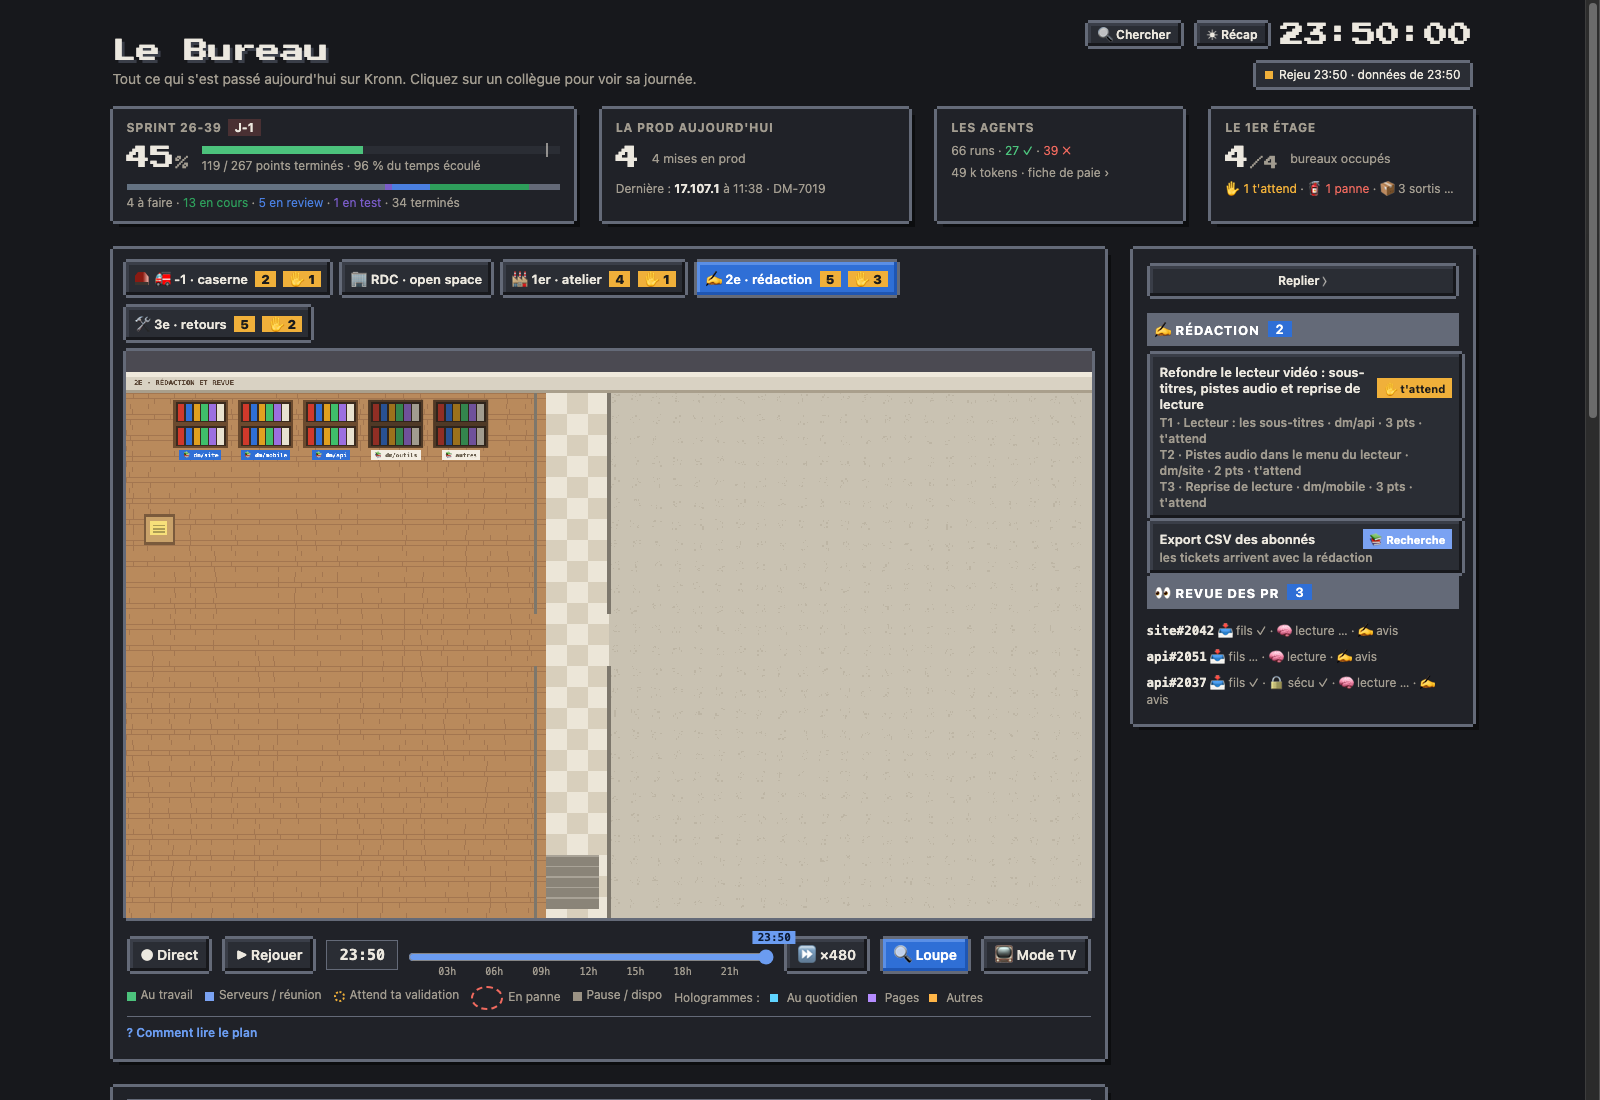
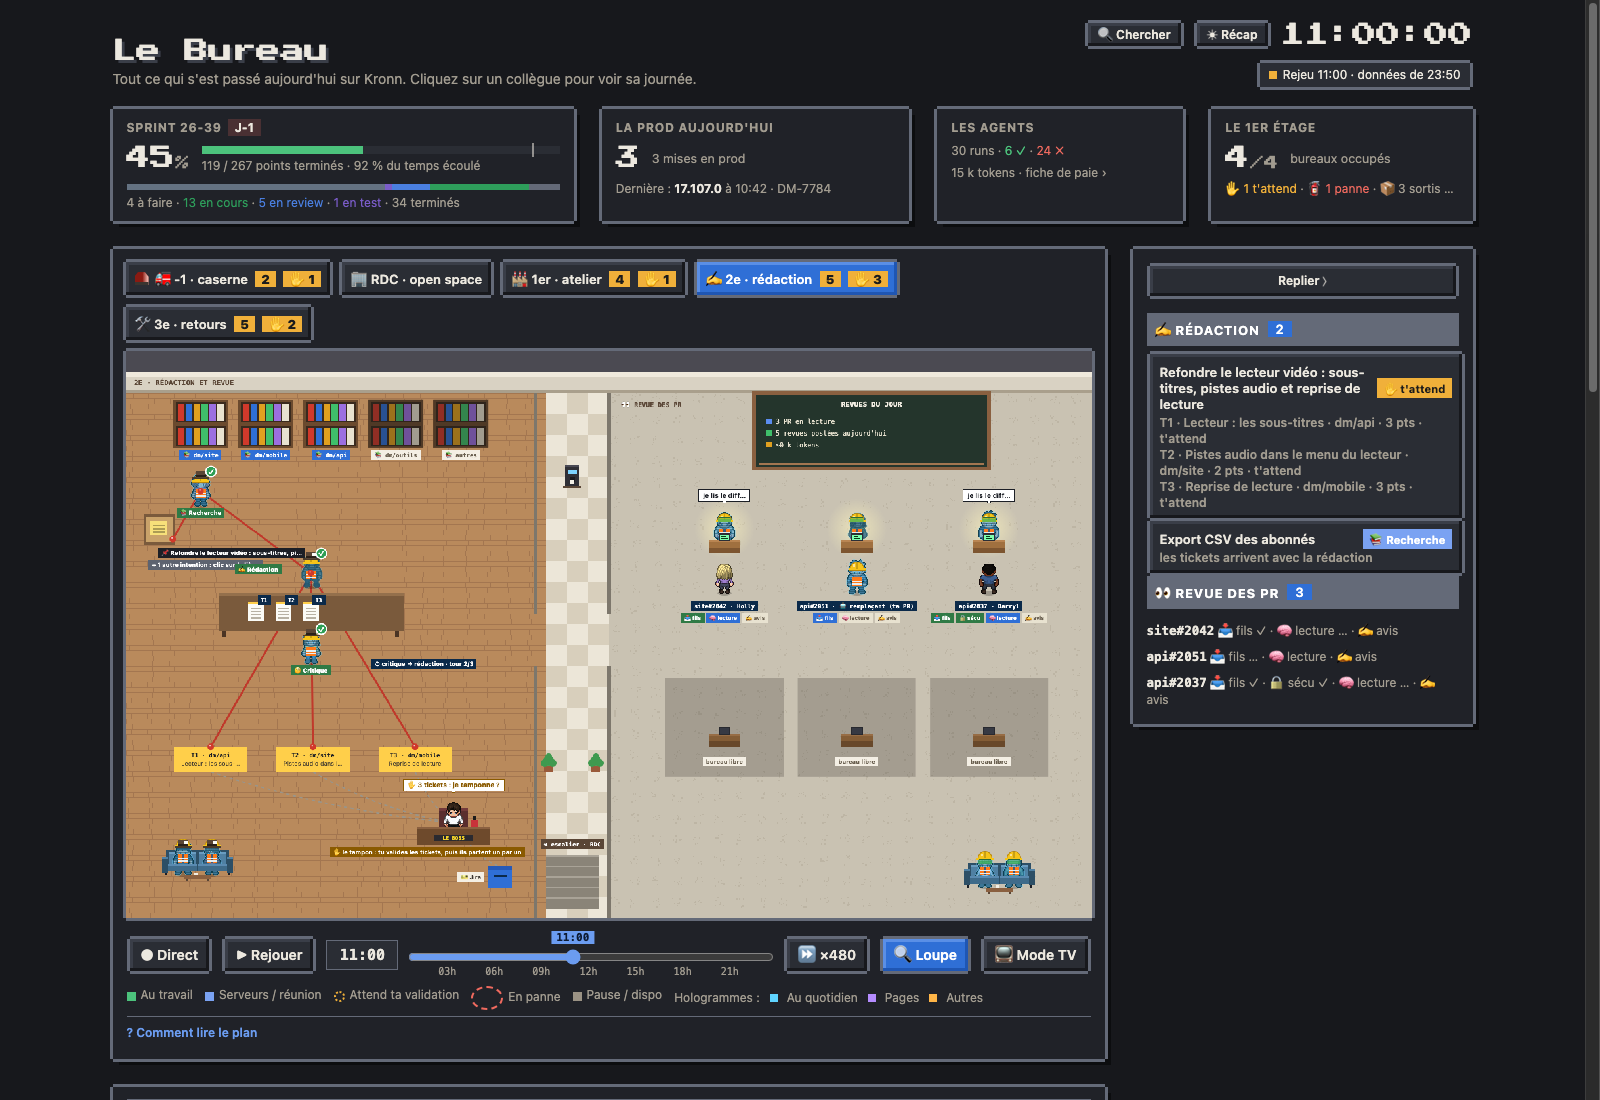
fix(redaction): le 2e étage se dessine de nouveau (ctx.stroke) (#166)
## 🎯 Quoi et pourquoi
Le 2e étage ne montre que le sol depuis #164 : un remplacement de `st`
par `etat` a changé `ctx.stroke` en `ctx.etatroke` dans le fil rouge
(`rdStrand`). L'étage s'arrête sur l'erreur, en prod comme dans
`guide/img/redaction.png`. Les tests ne le voyaient pas : leur faux
canvas accepte n'importe quel nom.

## 🔧 Changements
- `page/src/68-redaction.js` : `ctx.strokeStyle` et `ctx.stroke()`
rétablis.
- `tests/canvas-api.test.js` : chaque `ctx.xxx` de la page doit être un
membre du canvas 2D (le test échoue sans le correctif).
- Captures du 2e refaites (`redaction`, `redaction-tampon`), ligne du
CHANGELOG.

## 🧪 Tests
- [x] `sh tools/test.sh --chrome` : tests JS verts (571). Un test Python
échoue en local
(`test_pages_snapshot_captures_with_a_chrome_that_exits_by_itself`), il
échoue aussi sur `origin/main` : sans rapport.
- [x] Un test ajouté ou adapté pour ce changement

## 📸 Captures
`guide/img/redaction.png` : le 2e se dessine de nouveau (avant : le sol
seul).

## ✅ Avant de merger
- [x] Guide, captures dans la même PR
- [x] Affichage changé exprès : label « références visuelles » posé (la
référence `redaction` avait été prise cassée)
- [x] Une ligne dans `CHANGELOG.md`
- [x] Un commit par changement
- [ ] CI « Tests » verte

🤖 Generated with [Claude Code](https://claude.com/claude-code)

---------

diff --git a/tests/canvas-api.test.js b/tests/canvas-api.test.js
@@ -1,0 +1,25 @@
+// Les appels au canvas de la page (ctx.xxx) : seulement des membres de CanvasRenderingContext2D. Le bouchon des tests
+// (helpers/page.js) accepte n'importe quel nom ; un remplacement de texte qui mord un nom (ctx.stroke devenu
+// ctx.etatroke, #164) passe les tests et casse l'étage dans le navigateur.
+'use strict';
+const test = require('node:test');
+const assert = require('node:assert/strict');
+const fs = require('node:fs');
+const path = require('node:path');
+
+const CANVAS = new Set(('arc arcTo beginPath bezierCurveTo canvas clearRect clip closePath createConicGradient createImageData '
+  + 'createLinearGradient createPattern createRadialGradient direction drawFocusIfNeeded drawImage ellipse fill fillRect '
+  + 'fillStyle fillText filter font fontKerning getImageData getLineDash getTransform globalAlpha globalCompositeOperation '
+  + 'imageSmoothingEnabled imageSmoothingQuality isPointInPath isPointInStroke letterSpacing lineCap lineDashOffset lineJoin '
+  + 'lineTo lineWidth measureText miterLimit moveTo putImageData quadraticCurveTo rect reset resetTransform restore rotate '
+  + 'roundRect save scale setLineDash setTransform shadowBlur shadowColor shadowOffsetX shadowOffsetY stroke strokeRect '
+  + 'strokeStyle strokeText textAlign textBaseline transform translate wordSpacing').split(' '));
+
+test('ctx.xxx : des membres du canvas 2D, dans chaque fichier de la page', () => {
+  const dir = path.join(__dirname, '..', 'page', 'src'), bad = [];
+  for (const f of fs.readdirSync(dir).filter(f => f.endsWith('.js'))) {
+    const src = fs.readFileSync(path.join(dir, f), 'utf8');
+    for (const m of src.matchAll(/\bctx\.([A-Za-z]+)/g)) if (!CANVAS.has(m[1])) bad.push(f + ' : ctx.' + m[1]);
+  }
+  assert.deepEqual(bad, []);
+});

diff --git a/page/src/68-redaction.js b/page/src/68-redaction.js
@@ -82,8 +82,8 @@ function rdShelf(x,y,label,lit){R(ctx,x,y,84,74,'#6b4a2e');[4,40].forEach(dy=>{R
 // les bibliothèques : les composants de l'équipe (jira.create.components du pack ou de la config), sinon ceux de la démo
 const rdShelves=t=>{const own=[...((t&&t.composants)||[])], base=[...((CFG.redaction_shelves||[]).length?CFG.redaction_shelves:RD_SH0)].slice(0,4);for(const c of own)if(!base.includes(c))base.splice(base.length-1,0,c);return [...base.slice(0,4),'autres'];};
 function rdPin(q,col){ctx.fillStyle=col;ctx.beginPath();ctx.arc(q.x,q.y,5,0,7);ctx.fill();ctx.fillStyle='rgba(255,255,255,.7)';ctx.fillRect(q.x-2,q.y-3,2,2);}
-function rdStrand(a,b,on){ctx.save();ctx.beginPath();ctx.moveTo(a.x,a.y);if(on){ctx.lineTo(b.x,b.y);ctx.etatrokeStyle='#c0392b';ctx.lineWidth=3;}
-  else{ctx.quadraticCurveTo((a.x+b.x)/2,(a.y+b.y)/2+22,b.x,b.y);ctx.setLineDash([5,5]);ctx.etatrokeStyle='#9a958a';ctx.lineWidth=2;}ctx.etatroke();ctx.restore();}
+function rdStrand(a,b,on){ctx.save();ctx.beginPath();ctx.moveTo(a.x,a.y);if(on){ctx.lineTo(b.x,b.y);ctx.strokeStyle='#c0392b';ctx.lineWidth=3;}
+  else{ctx.quadraticCurveTo((a.x+b.x)/2,(a.y+b.y)/2+22,b.x,b.y);ctx.setLineDash([5,5]);ctx.strokeStyle='#9a958a';ctx.lineWidth=2;}ctx.stroke();ctx.restore();}
 // ---------- la salle de rédaction ----------
 function rdRoom(now,people){
   const T=RD_T, t=rdTable(), shelves=rdShelves(t), sw=3.1*T, sh0=(RD_X1*T-(4*sw+84))/2;

diff --git a/CHANGELOG.md b/CHANGELOG.md
@@ -8,6 +8,7 @@ Format : [Keep a Changelog](https://keepachangelog.com/fr/1.1.0/). Versions : `0
 
 ### Corrigé
 
+- 2e étage : il se dessine de nouveau (seul le sol s'affichait depuis son arrivée) ; un test vérifie que la page n'appelle que de vrais membres du canvas.
 - Créer un ticket : la validation se fait sur la liste des tickets, dans le parent, car Kronn refuse une gate dans un sous-workflow (le modèle d'avant ne s'installait pas). **Changements** renvoie à la rédaction avec tes retours (« retire T2 », « fusionne T1 et T3 ») ; chaque ticket n'a plus que sa création. Un test vérifie qu'aucun modèle lancé en sous-workflow n'a de gate. Après la mise à jour : `python3 tools/install.py`, puis `publish.py all`.
 - Fil de la journée : le ménage du soir passe aussi par le -1 (« a fini le 1er étage, il descend au -1 ») ; « tout est propre » arrive à la fin de sa tournée, plus à la fin du 1er. Après la mise à jour : `publish.py page`.
 - Caserne Support (-1) : en rejeu, le camion et l'équipe sortent bien pendant une investigation. Le run d'un fil se retrouve aussi par l'id que le relevé a noté pour ce fil : Kronn range désormais les variables d'un run dans un instantané, et la variable `message_id` manquait aux runs du jour (le fil passait pour un appel à prendre). Après la mise à jour : `publish.py page`.
